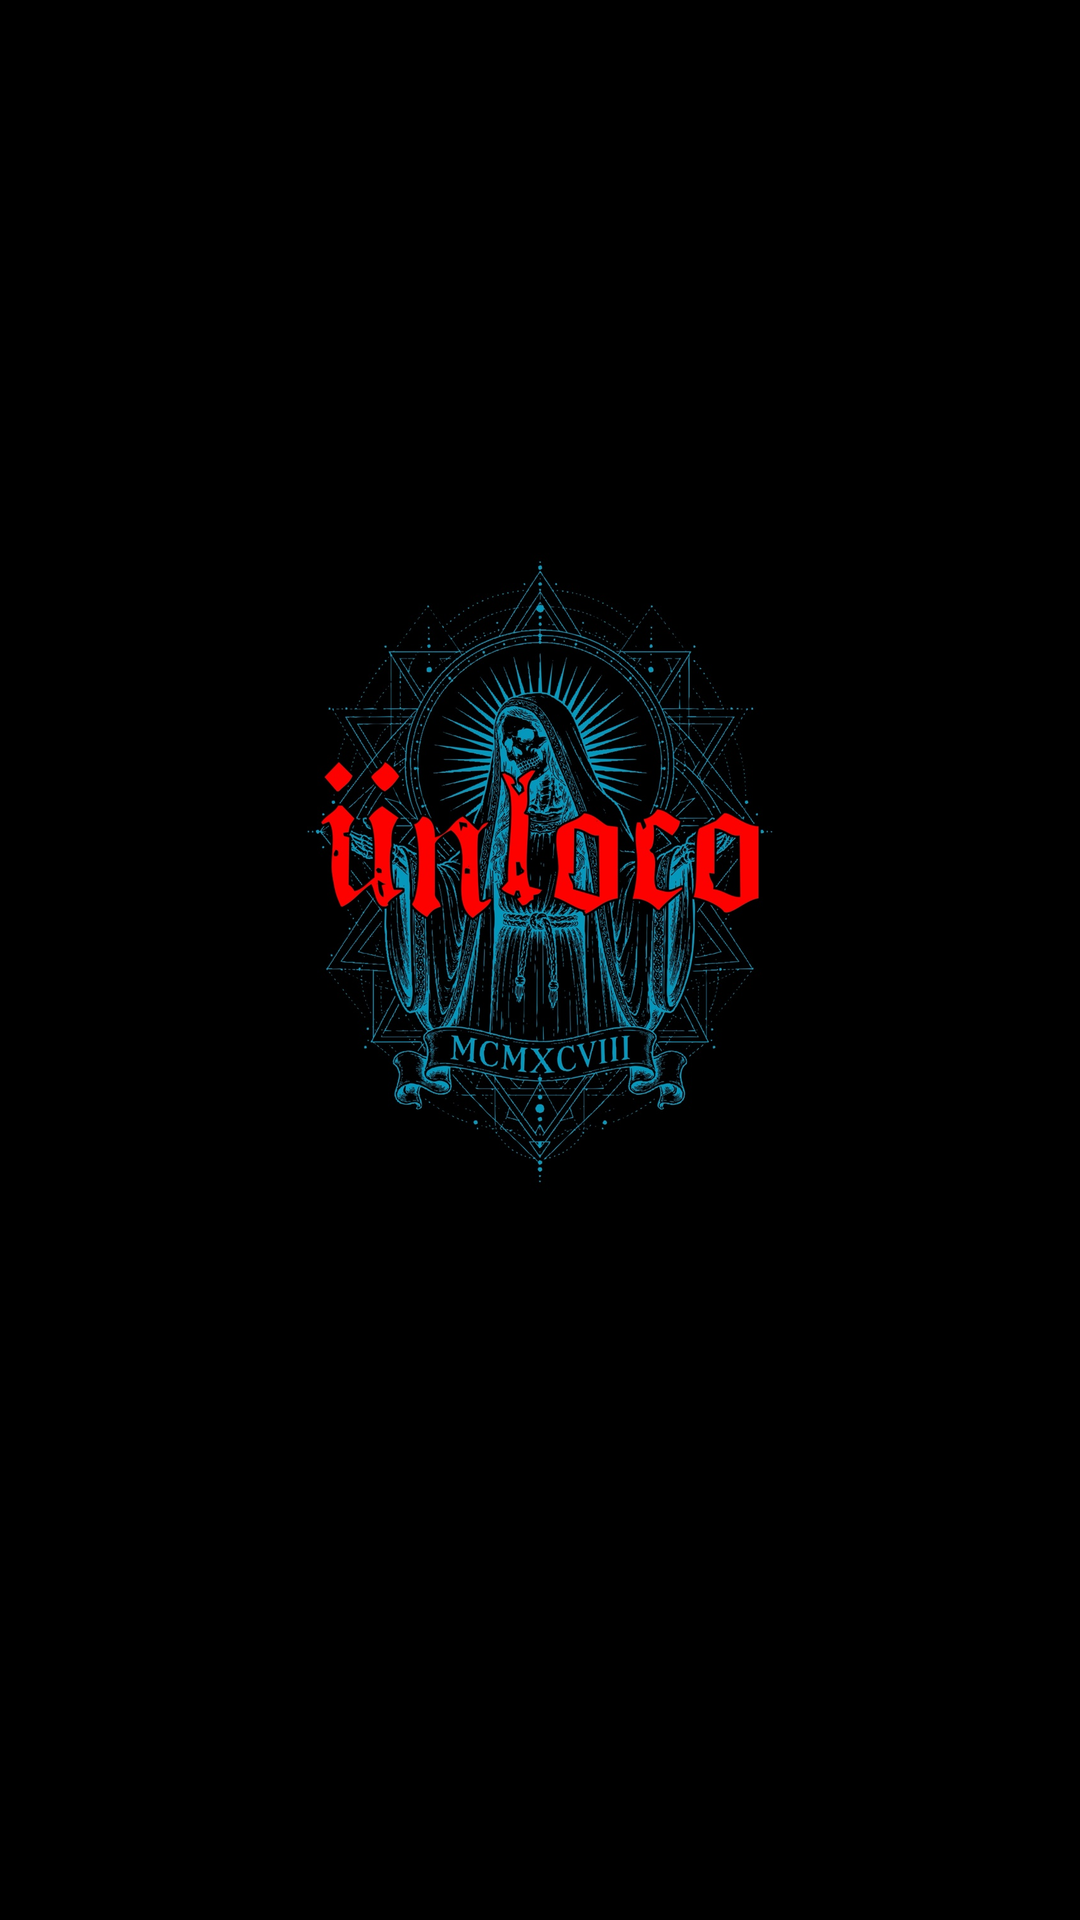
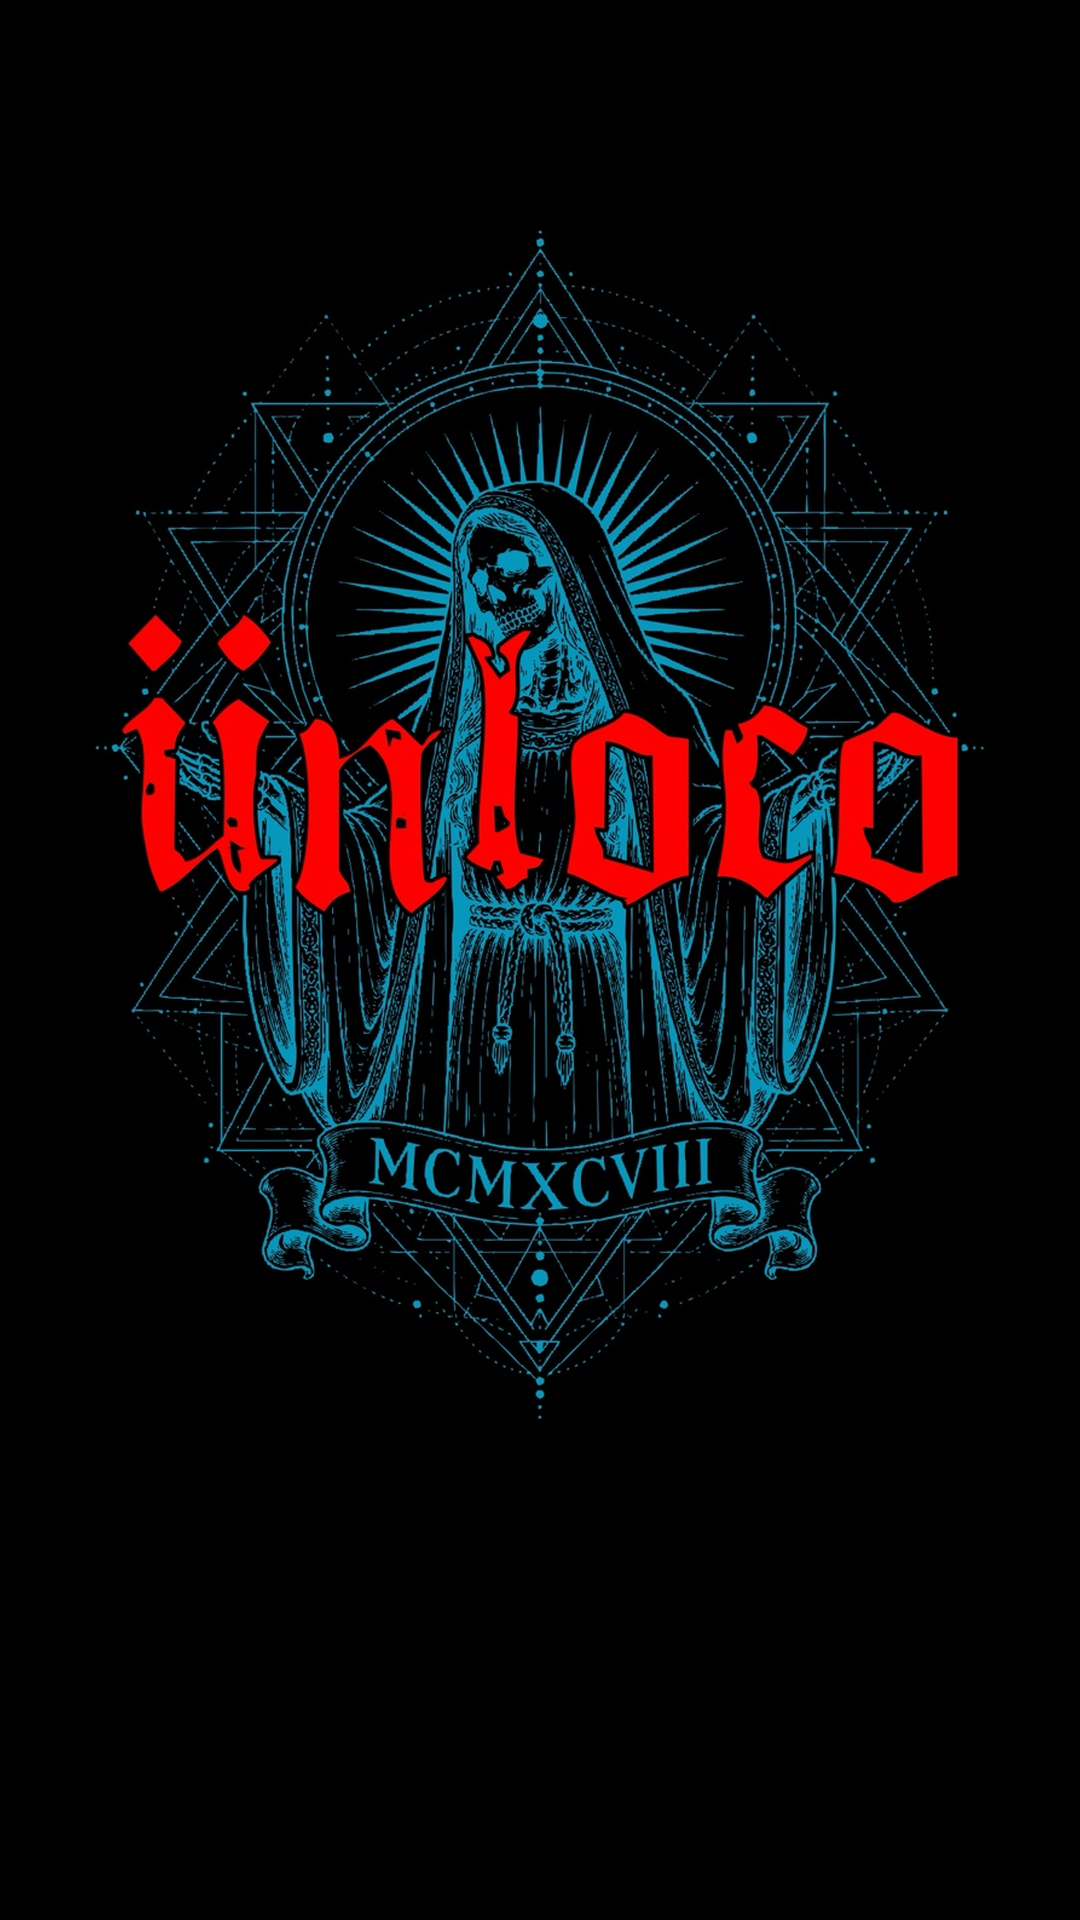
Final

Changed region(s): [[0.0917, 0.125, 0.8861, 0.7188]]

diff --git a/index.html b/index.html
@@ -9,46 +9,49 @@
 html, body{
     margin:0;
     padding:0;
+    width:100%;
+    min-height:100%;
     background:#000;
     overflow:hidden;
 }
 
 body{
-    min-height:100vh;
     background:#000;
 }
 
-.hero-wrap{
+.page{
     position:relative;
     width:100vw;
     height:100vh;
-    overflow:hidden;
     background:#000;
+    display:flex;
+    align-items:center;
+    justify-content:center;
+    overflow:hidden;
 }
 
 .hero{
-    width:100%;
-    height:100%;
+    width:100vw;
+    height:100vh;
     object-fit:contain;
     display:block;
     background:#000;
 }
 
-/* Social buttons */
 .socials{
     position:absolute;
     left:50%;
-    bottom:5.5%;
+    bottom:6.2%;
     transform:translateX(-50%);
     display:flex;
     gap:18px;
-    z-index:999;
+    z-index:10;
     opacity:0;
     transition:opacity .25s ease;
 }
 
-.hero-wrap:hover .socials,
-.hero-wrap:active .socials{
+.page:hover .socials,
+.page:active .socials{
     opacity:1;
 }
 
@@ -58,42 +61,47 @@ body{
     border-radius:50%;
     border:1px solid #00b7d8;
     background:rgba(0,0,0,.72);
-    color:#fff;
     display:flex;
     align-items:center;
     justify-content:center;
+    color:#fff;
     text-decoration:none;
-    font-family:Arial, sans-serif;
-    font-weight:bold;
-    font-size:18px;
     box-shadow:0 0 14px rgba(0,183,216,.45);
+    transition:transform .2s ease, box-shadow .2s ease, background .2s ease;
 }
 
 .socials a:hover{
-    background:#00b7d8;
-    color:#000;
+    transform:scale(1.08);
+    background:rgba(0,183,216,.18);
+    box-shadow:0 0 22px rgba(0,183,216,.85);
+}
+
+.socials svg{
+    width:24px;
+    height:24px;
+    fill:currentColor;
 }
 
 /* Mobile */
 @media (max-aspect-ratio:4/5){
-
     .hero{
         content:url("unloco-mobile-hero.png");
-        object-fit:contain;
-        transform:scale(2.0) translateY(-25px);
-        transform-origin:center center;
     }
 
     .socials{
         opacity:1;
-        bottom:6%;
+        bottom:8.2%;
         gap:10px;
     }
 
     .socials a{
         width:46px;
         height:46px;
-        font-size:15px;
+    }
+
+    .socials svg{
+        width:21px;
+        height:21px;
     }
 }
 </style>
@@ -101,19 +109,45 @@ body{
 
 <body>
 
-<div class="hero-wrap">
+<main class="page">
 
     <img src="unloco-web-hero.png" class="hero" alt="Ünloco">
 
-    <div class="socials">
-        <a href="https://www.facebook.com/unlocotx" target="_blank" rel="noopener noreferrer" aria-label="Facebook">f</a>
-        <a href="https://www.instagram.com/unlocotx" target="_blank" rel="noopener noreferrer" aria-label="Instagram">◎</a>
-        <a href="https://www.youtube.com/@unlocotx" target="_blank" rel="noopener noreferrer" aria-label="YouTube">▶</a>
-        <a href="https://x.com/unloco_official" target="_blank" rel="noopener noreferrer" aria-label="X">X</a>
-        <a href="https://www.tiktok.com/@unlocotx" target="_blank" rel="noopener noreferrer" aria-label="TikTok">♪</a>
-    </div>
+    <nav class="socials" aria-label="Social links">
 
-</div>
+        <a href="https://www.facebook.com/unlocotx" target="_blank" rel="noopener noreferrer" aria-label="Facebook">
+            <svg viewBox="0 0 24 24" aria-hidden="true">
+                <path d="M14 8.5h2.2V5.1c-.4-.1-1.7-.2-3.2-.2-3.2 0-5.3 1.9-5.3 5.4v3H4.2V17h3.5v7H12v-7h3.5l.6-3.7H12v-2.6c0-1.1.3-2.2 2-2.2z"/>
+            </svg>
+        </a>
+
+        <a href="https://www.instagram.com/unlocotx" target="_blank" rel="noopener noreferrer" aria-label="Instagram">
+            <svg viewBox="0 0 24 24" aria-hidden="true">
+                <path d="M7.8 2h8.4A5.8 5.8 0 0 1 22 7.8v8.4a5.8 5.8 0 0 1-5.8 5.8H7.8A5.8 5.8 0 0 1 2 16.2V7.8A5.8 5.8 0 0 1 7.8 2zm0 2A3.8 3.8 0 0 0 4 7.8v8.4A3.8 3.8 0 0 0 7.8 20h8.4a3.8 3.8 0 0 0 3.8-3.8V7.8A3.8 3.8 0 0 0 16.2 4H7.8zm9 2.4a1.4 1.4 0 1 1 0 2.8 1.4 1.4 0 0 1 0-2.8zM12 7.3A4.7 4.7 0 1 1 12 16.7 4.7 4.7 0 0 1 12 7.3zm0 2A2.7 2.7 0 1 0 12 14.7 2.7 2.7 0 0 0 12 9.3z"/>
+            </svg>
+        </a>
+
+        <a href="https://www.youtube.com/@unlocotx" target="_blank" rel="noopener noreferrer" aria-label="YouTube">
+            <svg viewBox="0 0 24 24" aria-hidden="true">
+                <path d="M23.5 6.2a3 3 0 0 0-2.1-2.1C19.5 3.6 12 3.6 12 3.6s-7.5 0-9.4.5A3 3 0 0 0 .5 6.2 31.3 31.3 0 0 0 0 12a31.3 31.3 0 0 0 .5 5.8 3 3 0 0 0 2.1 2.1c1.9.5 9.4.5 9.4.5s7.5 0 9.4-.5a3 3 0 0 0 2.1-2.1A31.3 31.3 0 0 0 24 12a31.3 31.3 0 0 0-.5-5.8zM9.6 15.6V8.4l6.3 3.6-6.3 3.6z"/>
+            </svg>
+        </a>
+
+        <a href="https://x.com/unloco_official" target="_blank" rel="noopener noreferrer" aria-label="X">
+            <svg viewBox="0 0 24 24" aria-hidden="true">
+                <path d="M18.9 2h3.3l-7.2 8.2L23.5 22h-6.7l-5.2-6.8L5.6 22H2.3l7.7-8.8L1.8 2h6.8l4.7 6.2L18.9 2zm-1.2 18h1.8L7.6 3.9H5.7L17.7 20z"/>
+            </svg>
+        </a>
+
+        <a href="https://www.tiktok.com/@unlocotx" target="_blank" rel="noopener noreferrer" aria-label="TikTok">
+            <svg viewBox="0 0 24 24" aria-hidden="true">
+                <path d="M16 1.8c.3 2.5 1.7 4.1 4.1 4.3v3.5c-1.4.1-2.7-.3-4-1.1v6.6c0 8.4-9.2 11-13 5-2.4-3.9-.9-10.8 6.8-11.1v3.7c-.5.1-1 .2-1.5.4-1.5.5-2.4 1.5-2.1 3.2.5 3.2 6.3 4.2 5.8-2.1V1.8H16z"/>
+            </svg>
+        </a>
+
+    </nav>
+
+</main>
 
 </body>
 </html>
